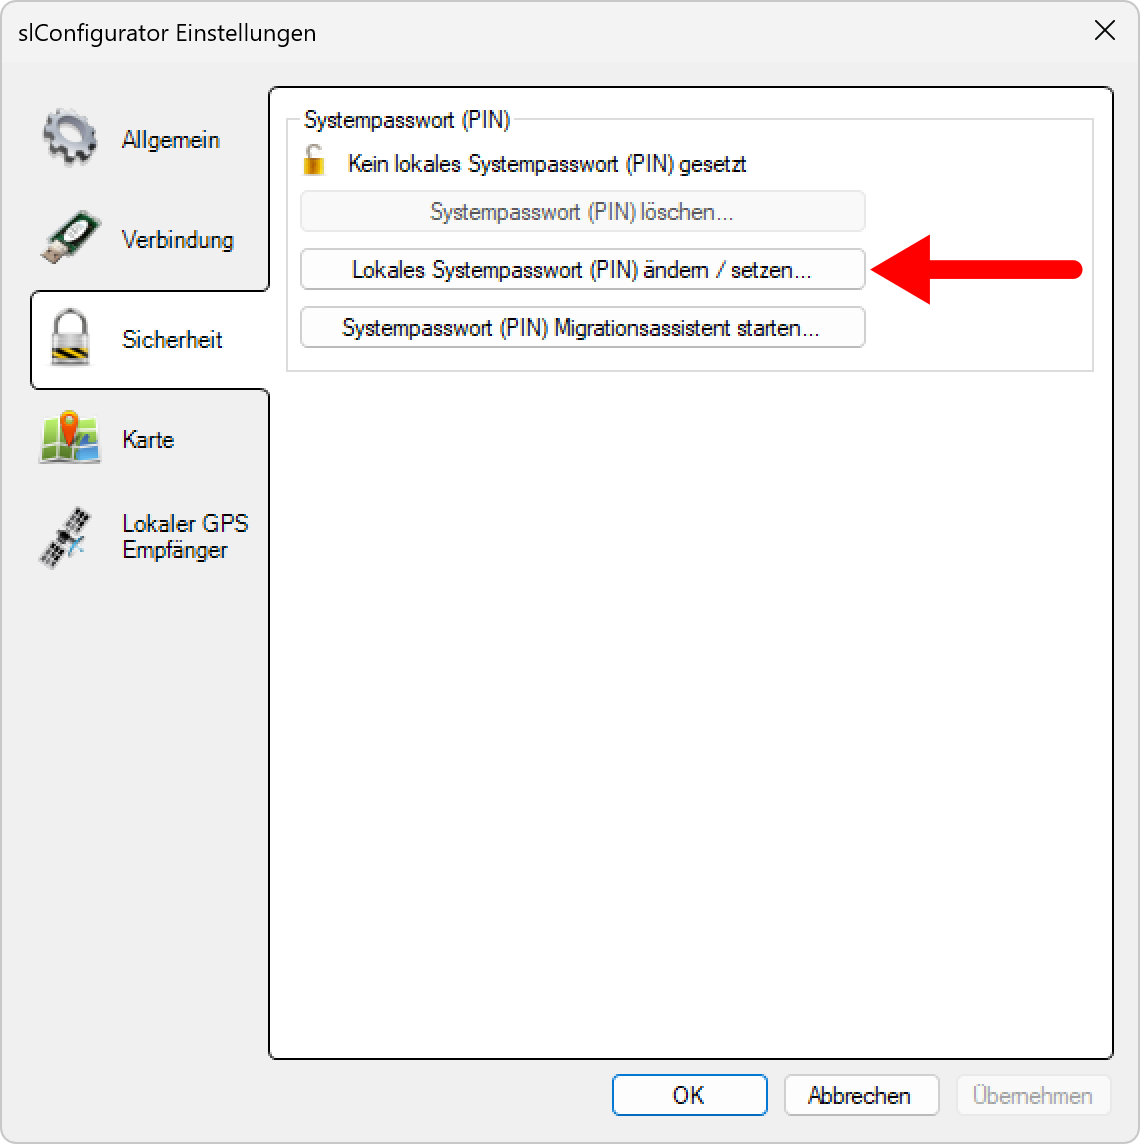
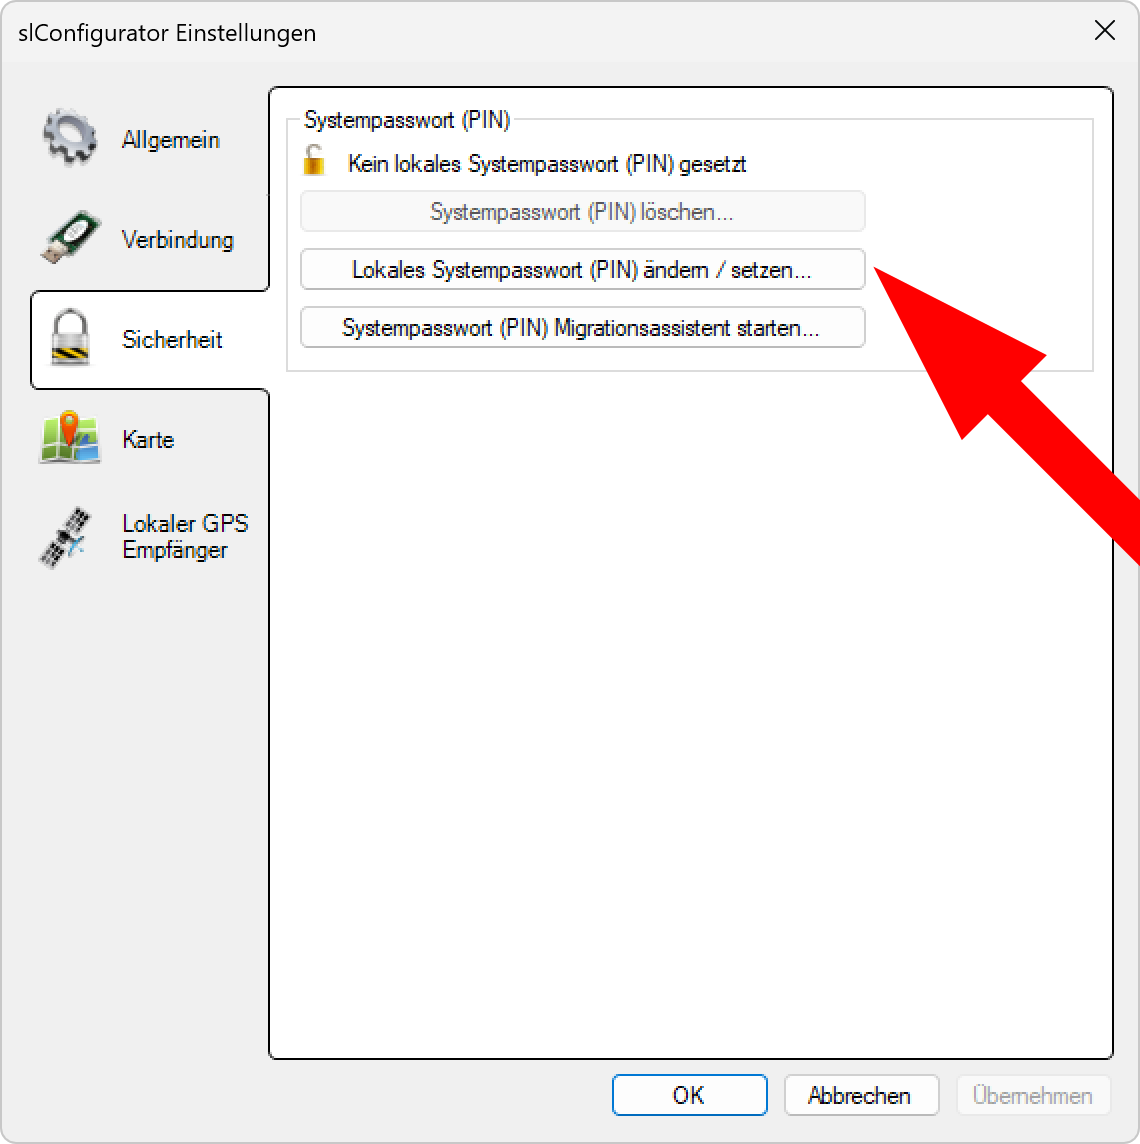
Update pin-setzen image and migrationsassistent README

Changed region(s): [[0.7675, 0.2142, 1.0, 0.4895]]

diff --git a/de/src/3-einstellungen/3-3-sicherheit/3-3-3-migrationsassistent/README.md b/de/src/3-einstellungen/3-3-sicherheit/3-3-3-migrationsassistent/README.md
@@ -1,4 +1,4 @@
-# Systempasswort (PIN) Migrationsassistent starten
+# Systempasswort (PIN) Migrationsassistent
 
 Der Migrationsassistent verteilt das gesetzte Systempsswort (PIN) an die Lampencontroller.
 
